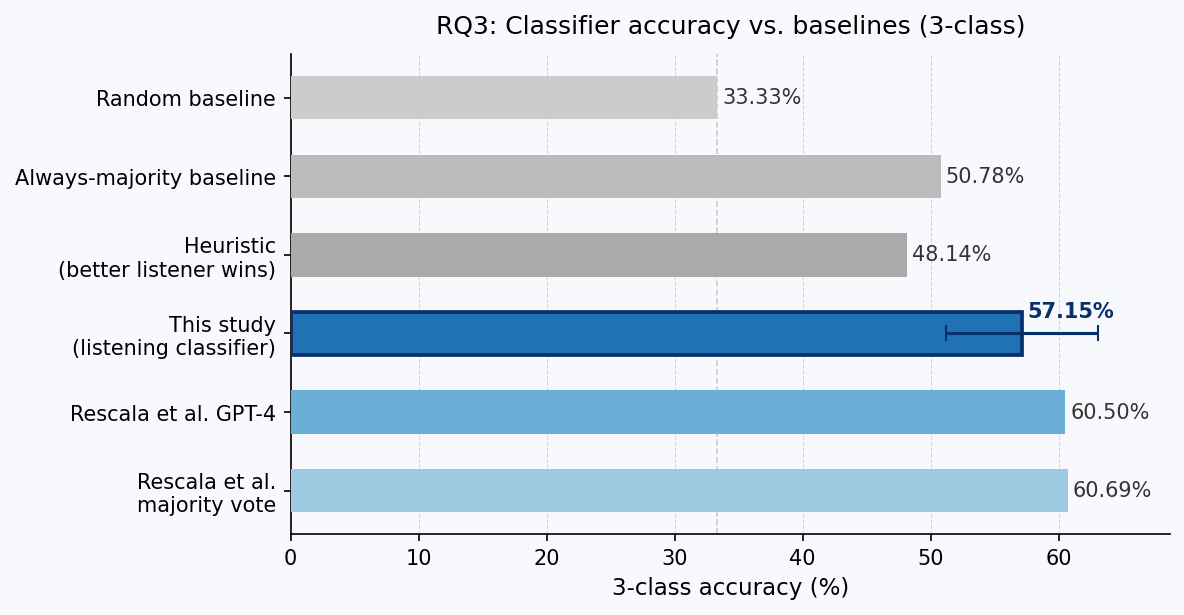
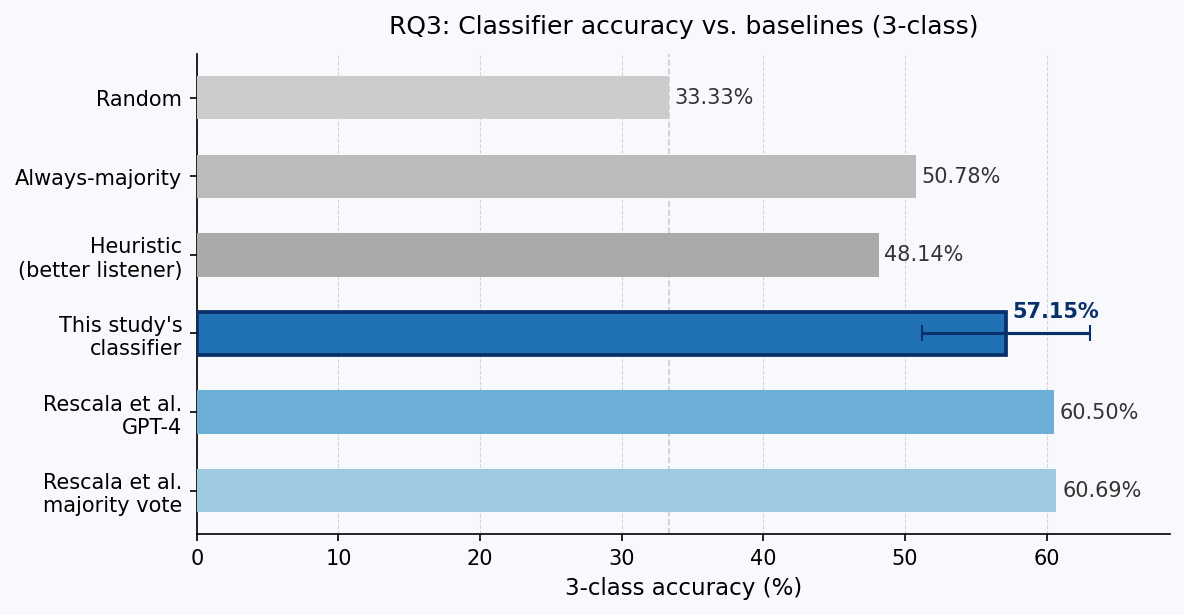
Refine RQ classifier comparison labels for clarity; update corresponding report image.

diff --git a/rq_analysis.py b/rq_analysis.py
@@ -1181,11 +1181,11 @@ def analyze_cv_classifier(df: pd.DataFrame, output_dir: Path, no_plots: bool):
         row = clf_df[clf_df["condition"] == "3-class"].iloc[0]
 
         entries = [
-            ("Random baseline", row["random_baseline"], "#cccccc", False),
-            ("Always-majority baseline", row["always_majority_class_pct"], "#bbbbbb", False),
-            ("Heuristic\n(better listener wins)", row["heuristic_accuracy"], "#aaaaaa", False),
-            ("This study\n(listening classifier)", row["cv_accuracy_mean"], "#2171b5", True),
-            ("Rescala et al. GPT-4", row["rescala_gpt4"], "#6baed6", False),
+            ("Random", row["random_baseline"], "#cccccc", False),
+            ("Always-majority", row["always_majority_class_pct"], "#bbbbbb", False),
+            ("Heuristic\n(better listener)", row["heuristic_accuracy"], "#aaaaaa", False),
+            ("This study's\nclassifier", row["cv_accuracy_mean"], "#2171b5", True),
+            ("Rescala et al.\nGPT-4", row["rescala_gpt4"], "#6baed6", False),
             ("Rescala et al.\nmajority vote", row["rescala_majority_vote"], "#9ecae1", False),
         ]
 
